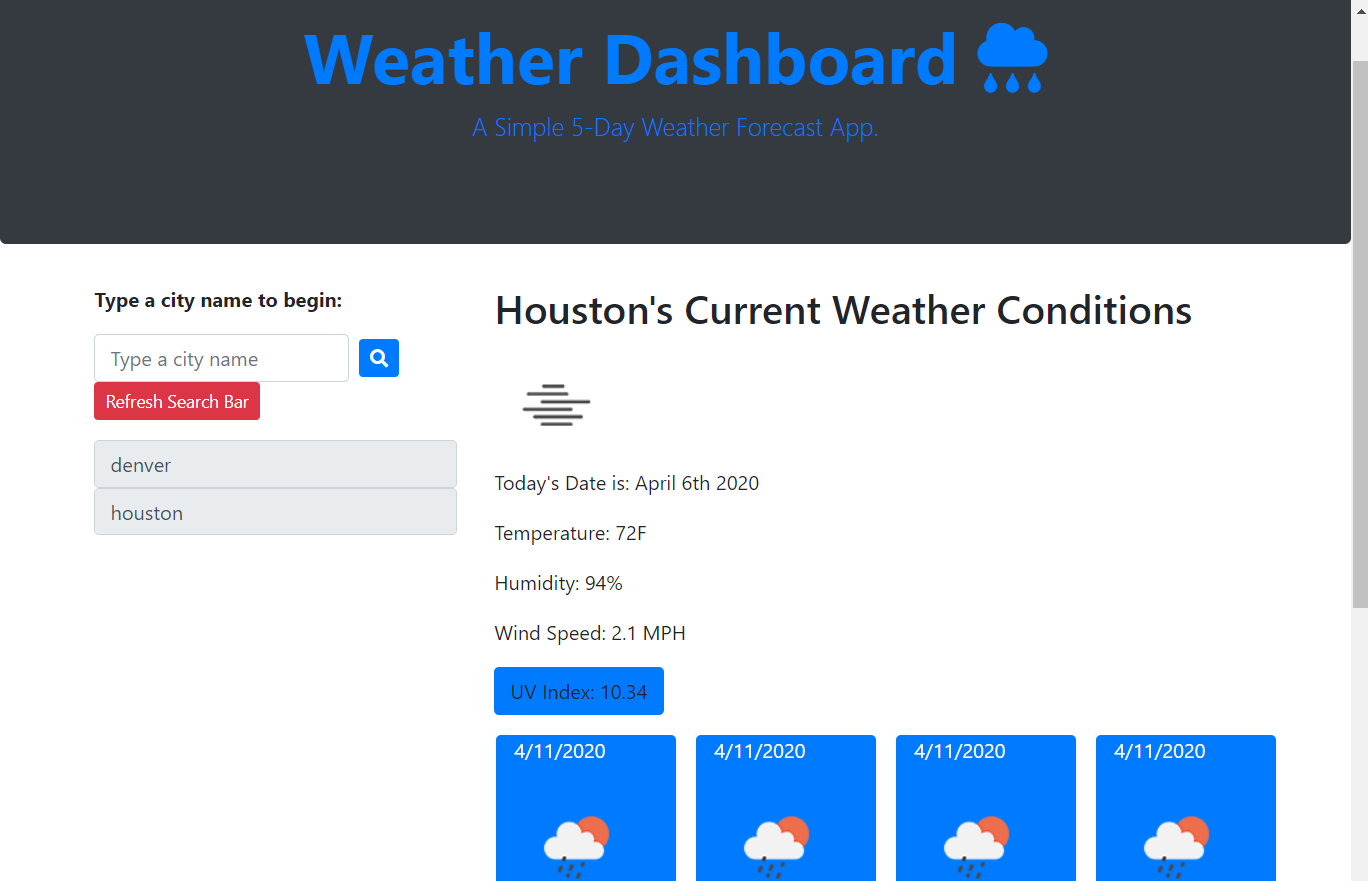
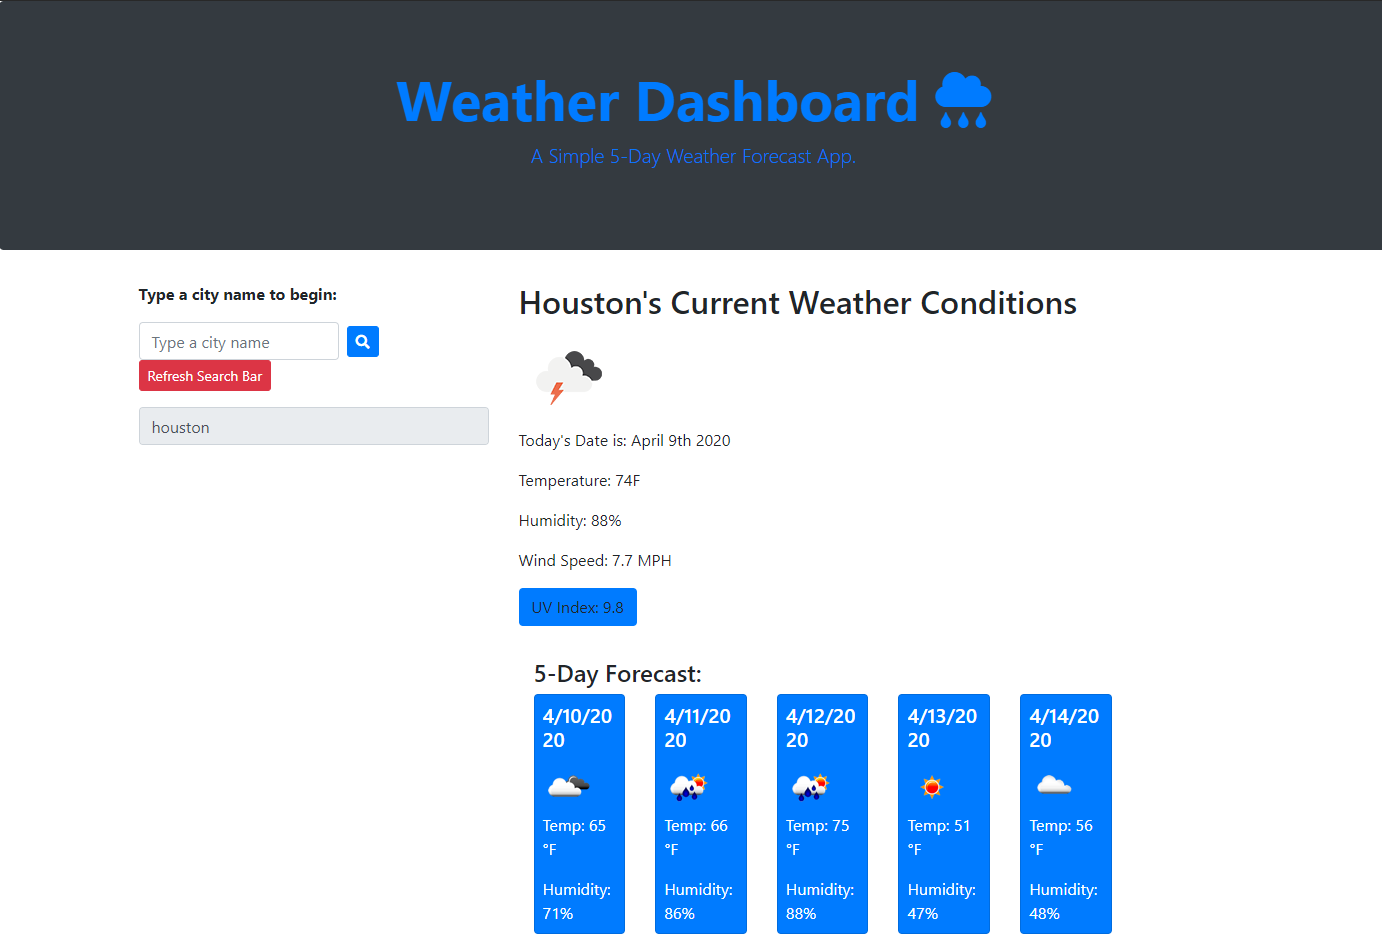
add dynamic forecast

diff --git a/script.js b/script.js
@@ -100,43 +100,77 @@ $( document ).ready(function() {
                     .then(function (response) {
                         console.log(response)
 
-                        const futureCond = $(".future");
+               
+                         $("#future").html("<h4 class=\"mt-3\">5-Day Forecast:</h4>").append("<div class=\"row\">");
+
+                        // loop over all forecasts (by 3-hour increments)
+                        for (var i = 0; i < response.list.length; i++) {
+                            // only look at forecasts around 3:00pm
+                            if (response.list[i].dt_txt.indexOf("15:00:00") !== -1) {
+                            // create html elements for a bootstrap card
+                            var col = $("<div>").addClass("col-md-2 col-sm-12");
+                            var card = $("<div>").addClass("card bg-primary text-white");
+                            var body = $("<div>").addClass("card-body p-2");
+
+                            var title = $("<h5>").addClass("card-title").text(new Date(response.list[i].dt_txt).toLocaleDateString());
+
+                            var img = $("<img>").attr("src", "http://openweathermap.org/img/w/" + response.list[i].weather[0].icon + ".png");
+
+                            var p1 = $("<p>").addClass("card-text").text("Temp: " + calculateF(response.list[i].main.temp_max) + " °F");
+                            var p2 = $("<p>").addClass("card-text").text("Humidity: " + response.list[i].main.humidity + "%");
+
+                            // merge together and put on page
+                            col.append(card.append(body.append(title, img, p1, p2)));
+                            $("#future .row").append(col);
+                            }
+                        }
+
+
+                        // var rowDiv = $("<div>").attr("class","forecast")
+                        // futureCond.append(rowDiv)
+                        
                         
 
-                        for (var i = 0; i < futureCond.length; i++) {
-                            futureCond.text("");
+                        // for (var i = 0; i < futureCond.length; i++) {
+                        //     //futureCond.text("");
 
-                            const index = i * 8 + 4;
-                            const futuredate = new Date(response.list[index].dt * 1000);
-                            console.log(futuredate)
-                            const day = futuredate.getDate();
-                            console.log(day)
-                            const month = futuredate.getMonth() + 1; // date seemed to be decreasing
-                            console.log(month)
-                            const year = futuredate.getFullYear();
-                            //var 
-                            //var currentDay1 = month + "/" + day + "/" + year
-                            //console.log(currentDay1)
-                            const dateEl = $('<p id="date"></p>');
-                            dateEl.text(month + "/" + day + "/" + year);
-                            futureCond.append(dateEl);
-                            const imgEl = $('<img id="weather-pc"/>')
-                            var description1 = response.list[index].weather[0].description;
-                            var pic1 = response.list[index].weather[0].icon
-                            imgEl.attr("src", "https://openweathermap.org/img/wn/" + pic1 + "@2x.png")
-                            imgEl.attr("alt", description1);
-                            futureCond.append(imgEl);
-                            const pTemp = $('<p id="p-temp"> </p>');
-                            pTemp.text("Temperature: " + temp1 + " °F");
-                            var temp1 = calculateF(response.list[index].main.temp);
-                            //$("#p-temp").text("Temperature: " + temp1 + "F");
-                            futureCond.append(pTemp);
-                            const pHumid = $('<p id="p-humid"></p>');
-                            pHumid.text("Humidity: " + humid + "%");;
-                            var humid = response.list[index].main.humidity;
-                            console.log(humid)
-                            futureCond.append(pHumid);
-                        };
+                        //     const index = i * 8 + 4;
+                        //     const futuredate = new Date(response.list[index].dt * 1000);
+                        //     console.log(futuredate)
+                        //     const day = futuredate.getDate();
+                        //     console.log(day)
+                        //     const month = futuredate.getMonth() + 1; // date seemed to be decreasing
+                        //     console.log(month)
+                        //     const year = futuredate.getFullYear();
+                        //     //var 
+                        //     //var currentDay1 = month + "/" + day + "/" + year
+                        //     //console.log(currentDay1)
+                        //     var colmn = $("<div>").attr("class","one-fifth");
+                        //     rowDiv.append(colmn);
+                        //     const dateCard = $('<div>').attr("class","card text-black bg-primary");
+                        //     colmn.append(dateCard);
+                        //    var cardHead = $("<div>").attr("class","card-header").text(month + "/" + day + "/" + year);
+                        //     dateCard.append(cardHead);
+                        //     var cardImg = $('<img>').attr("class","card-img-top");
+                        //     var description1 = response.list[index].weather[0].description;
+            
+                        //     var pic1 = response.list[index].weather[0].icon
+                        //     cardImg.attr("src", "https://openweathermap.org/img/wn/" + pic1 + "@2x.png")
+                        //     cardImg.attr("alt", description1);
+                        //     dateCard.append(cardImg);
+                        //     var cardBody = $("div").attr("class","card-body");
+                        //     dateCard.append(cardBody);
+                        //     var pTemp = $('<p>').attr("class","card-text");
+                        //     pTemp.text("Temperature: " + temp1 + " °F");
+                        //     var temp1 = calculateF(response.list[index].main.temp);
+                        //     //$("#p-temp").text("Temperature: " + temp1 + "F");
+                        //     cardBody.append(pTemp);
+                        //     var pHumid = $('<p>').attr("class","card-text");
+                        //     pHumid.text("Humidity: " + humid + "%");;
+                        //     var humid = response.list[index].main.humidity;
+                        //     console.log(humid)
+                        //     cardBody.append(pHumid);
+                        // };
 
 
                     });

diff --git a/index.html b/index.html
@@ -12,9 +12,28 @@
     <script src='https://kit.fontawesome.com/a076d05399.js'></script>
     <title>Weather DashBoard!</title>
     <style>
-    .forecast-date {
-    font-size: 18px;
-}
+        .one-fifth {
+            box-sizing: border-box;
+            width: 20%;
+            margin: 5px;
+            padding: 5px;
+
+        }
+
+        .one-fifth:first-child {
+            margin-left: 0px;
+        }
+
+        .one-fifth:last-child {
+            margin-right: 0px;
+        }
+
+        .forecast {
+            display: flex;
+            flex-direction: row;
+            justify-content: space-between;
+            margin: 10px 0px;
+        }
     </style>
 </head>
 
@@ -40,7 +59,7 @@
                 <button class=" btn btn-danger btn-sm mb-3" type="button" id="clear-search">Refresh Search Bar</button>
 
                 <div id="cached-cities">
-                    
+
                 </div>
             </div>
 
@@ -82,23 +101,19 @@
 
                     </div>
                 </div>
-                <div class="row">
-                    <div class="col future bg-primary text-white ml-3 mb-3 rounded"></div>
-                    <div class="col future bg-primary text-white ml-3 mb-3 rounded"></div>
-                    <div class="col future bg-primary text-white ml-3 mb-3 rounded"></div>
-                    <div class="col future bg-primary text-white ml-3 mb-3 rounded"></div>
-                    <div class="col future bg-primary text-white ml-3 mb-3 rounded"></div>
+                <div class="container" id="future">
+
                 </div>
 
             </div>
         </div>
-     
+
 
 
 
 
         <!-- Optional JavaScript -->
-        
+
         <!-- jQuery first, then Popper.js, then Bootstrap JS -->
         <script src="https://cdnjs.cloudflare.com/ajax/libs/moment.js/2.24.0/moment.min.js"></script>
         <script src="https://cdnjs.cloudflare.com/ajax/libs/jquery/3.2.1/jquery.min.js"></script>
@@ -109,7 +124,7 @@
             integrity="sha384-wfSDF2E50Y2D1uUdj0O3uMBJnjuUD4Ih7YwaYd1iqfktj0Uod8GCExl3Og8ifwB6"
             crossorigin="anonymous"></script>
         <script src="script.js"></script>
-        
+
 </body>
 
 </html>
